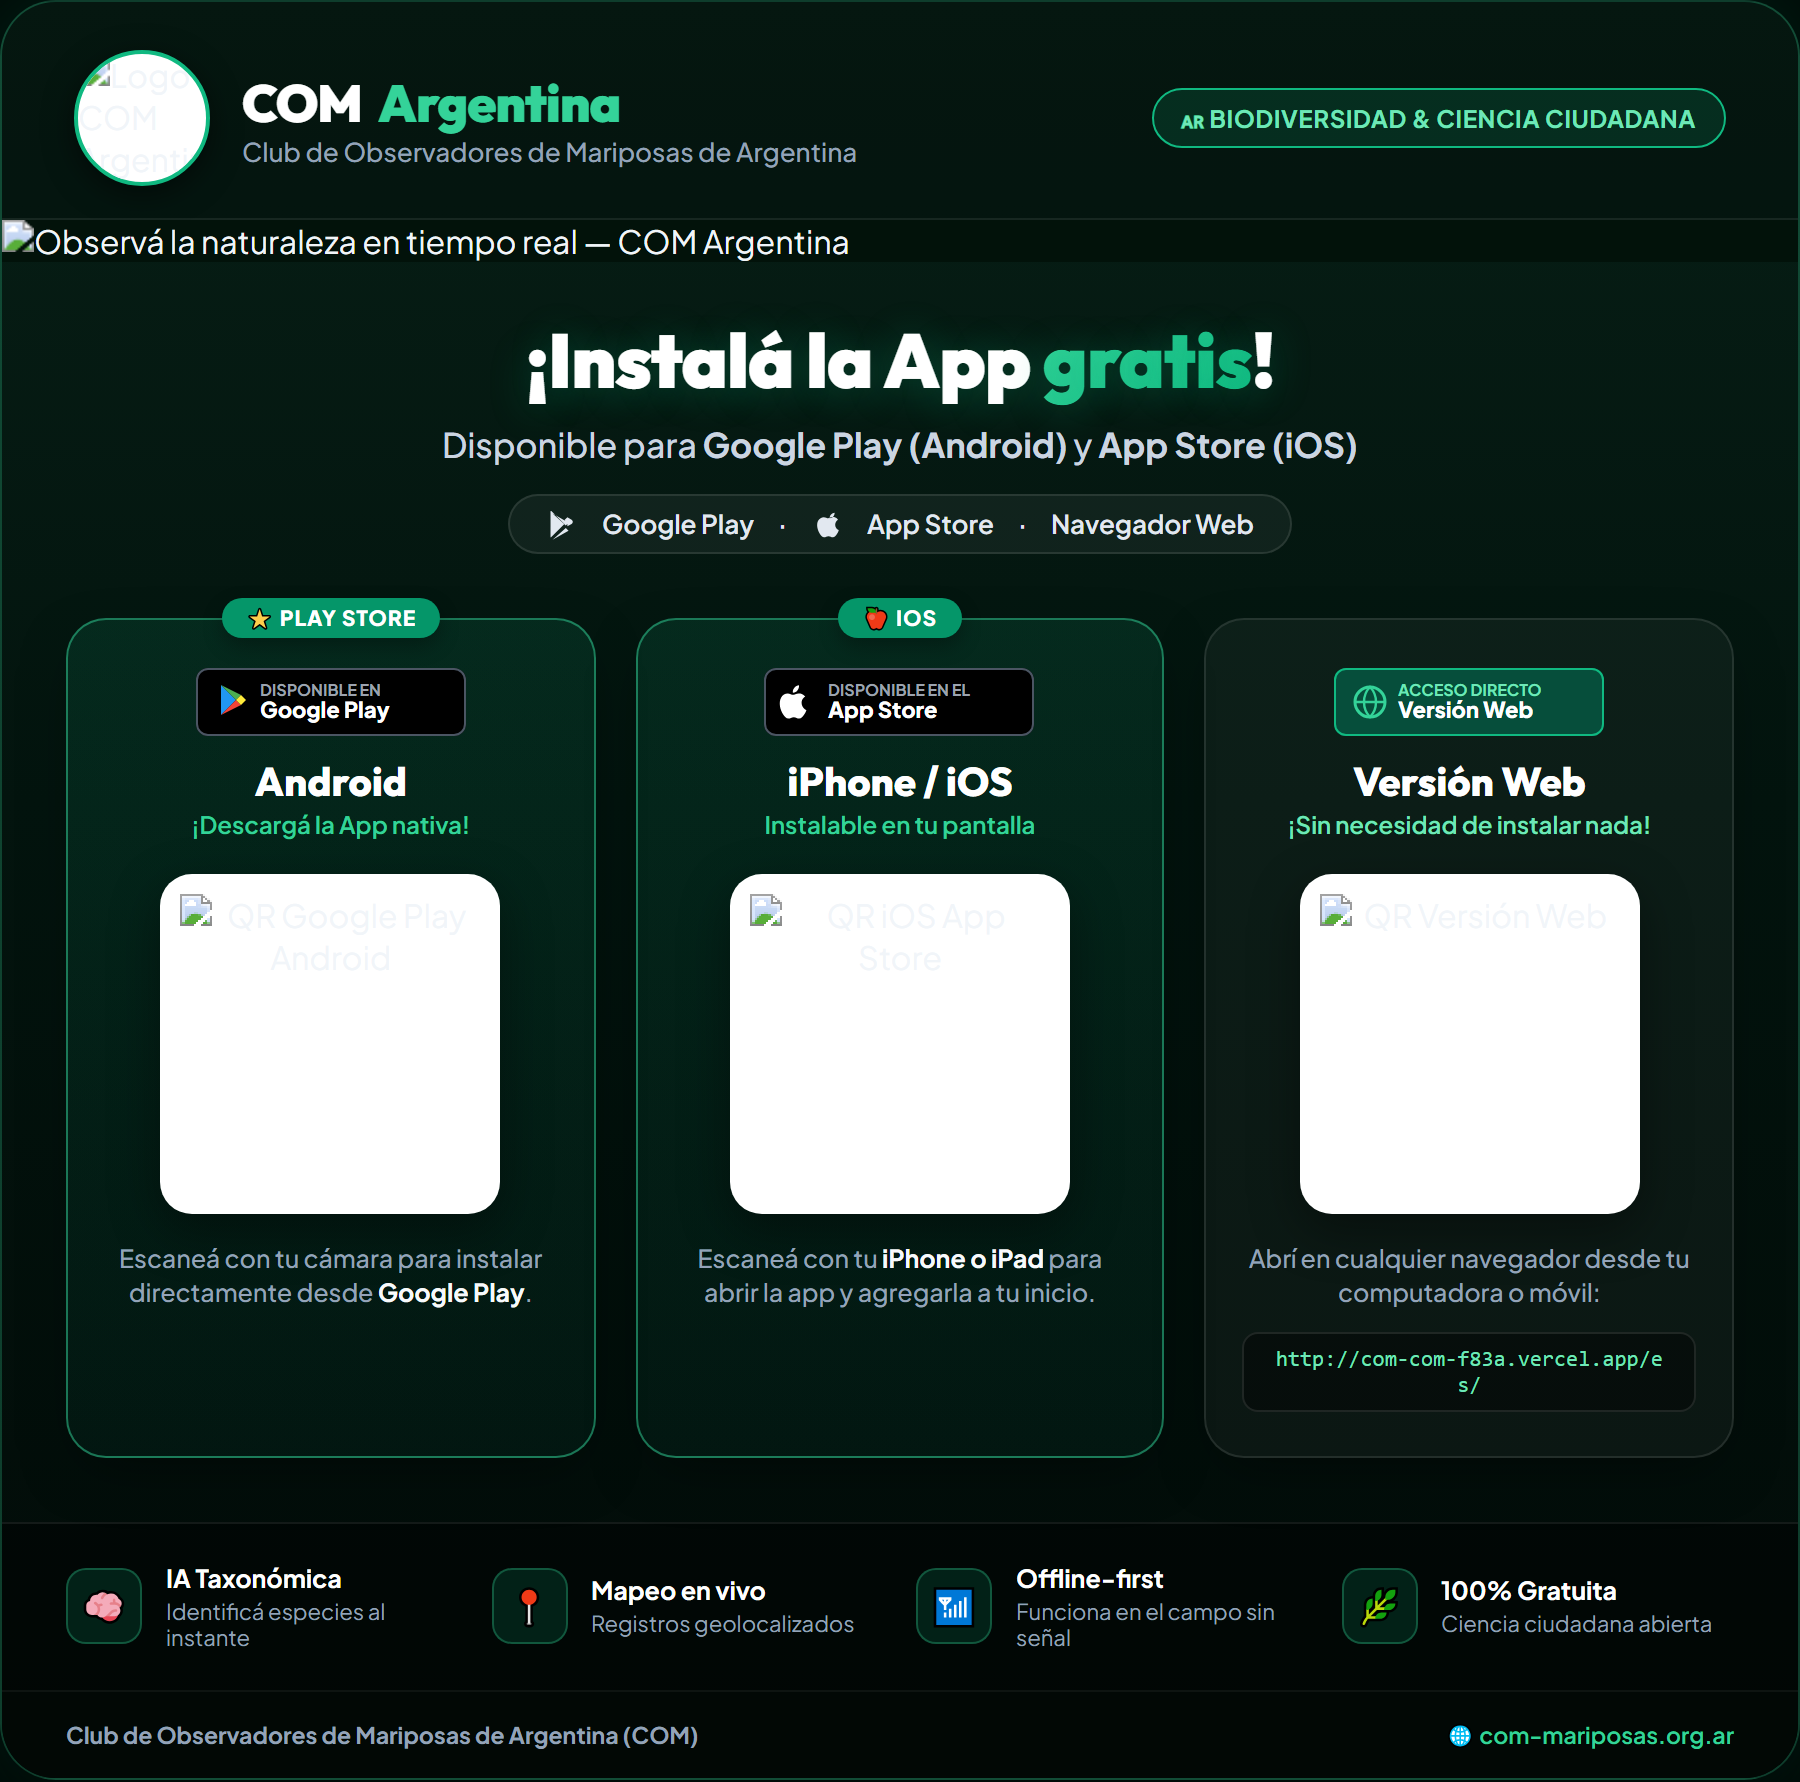
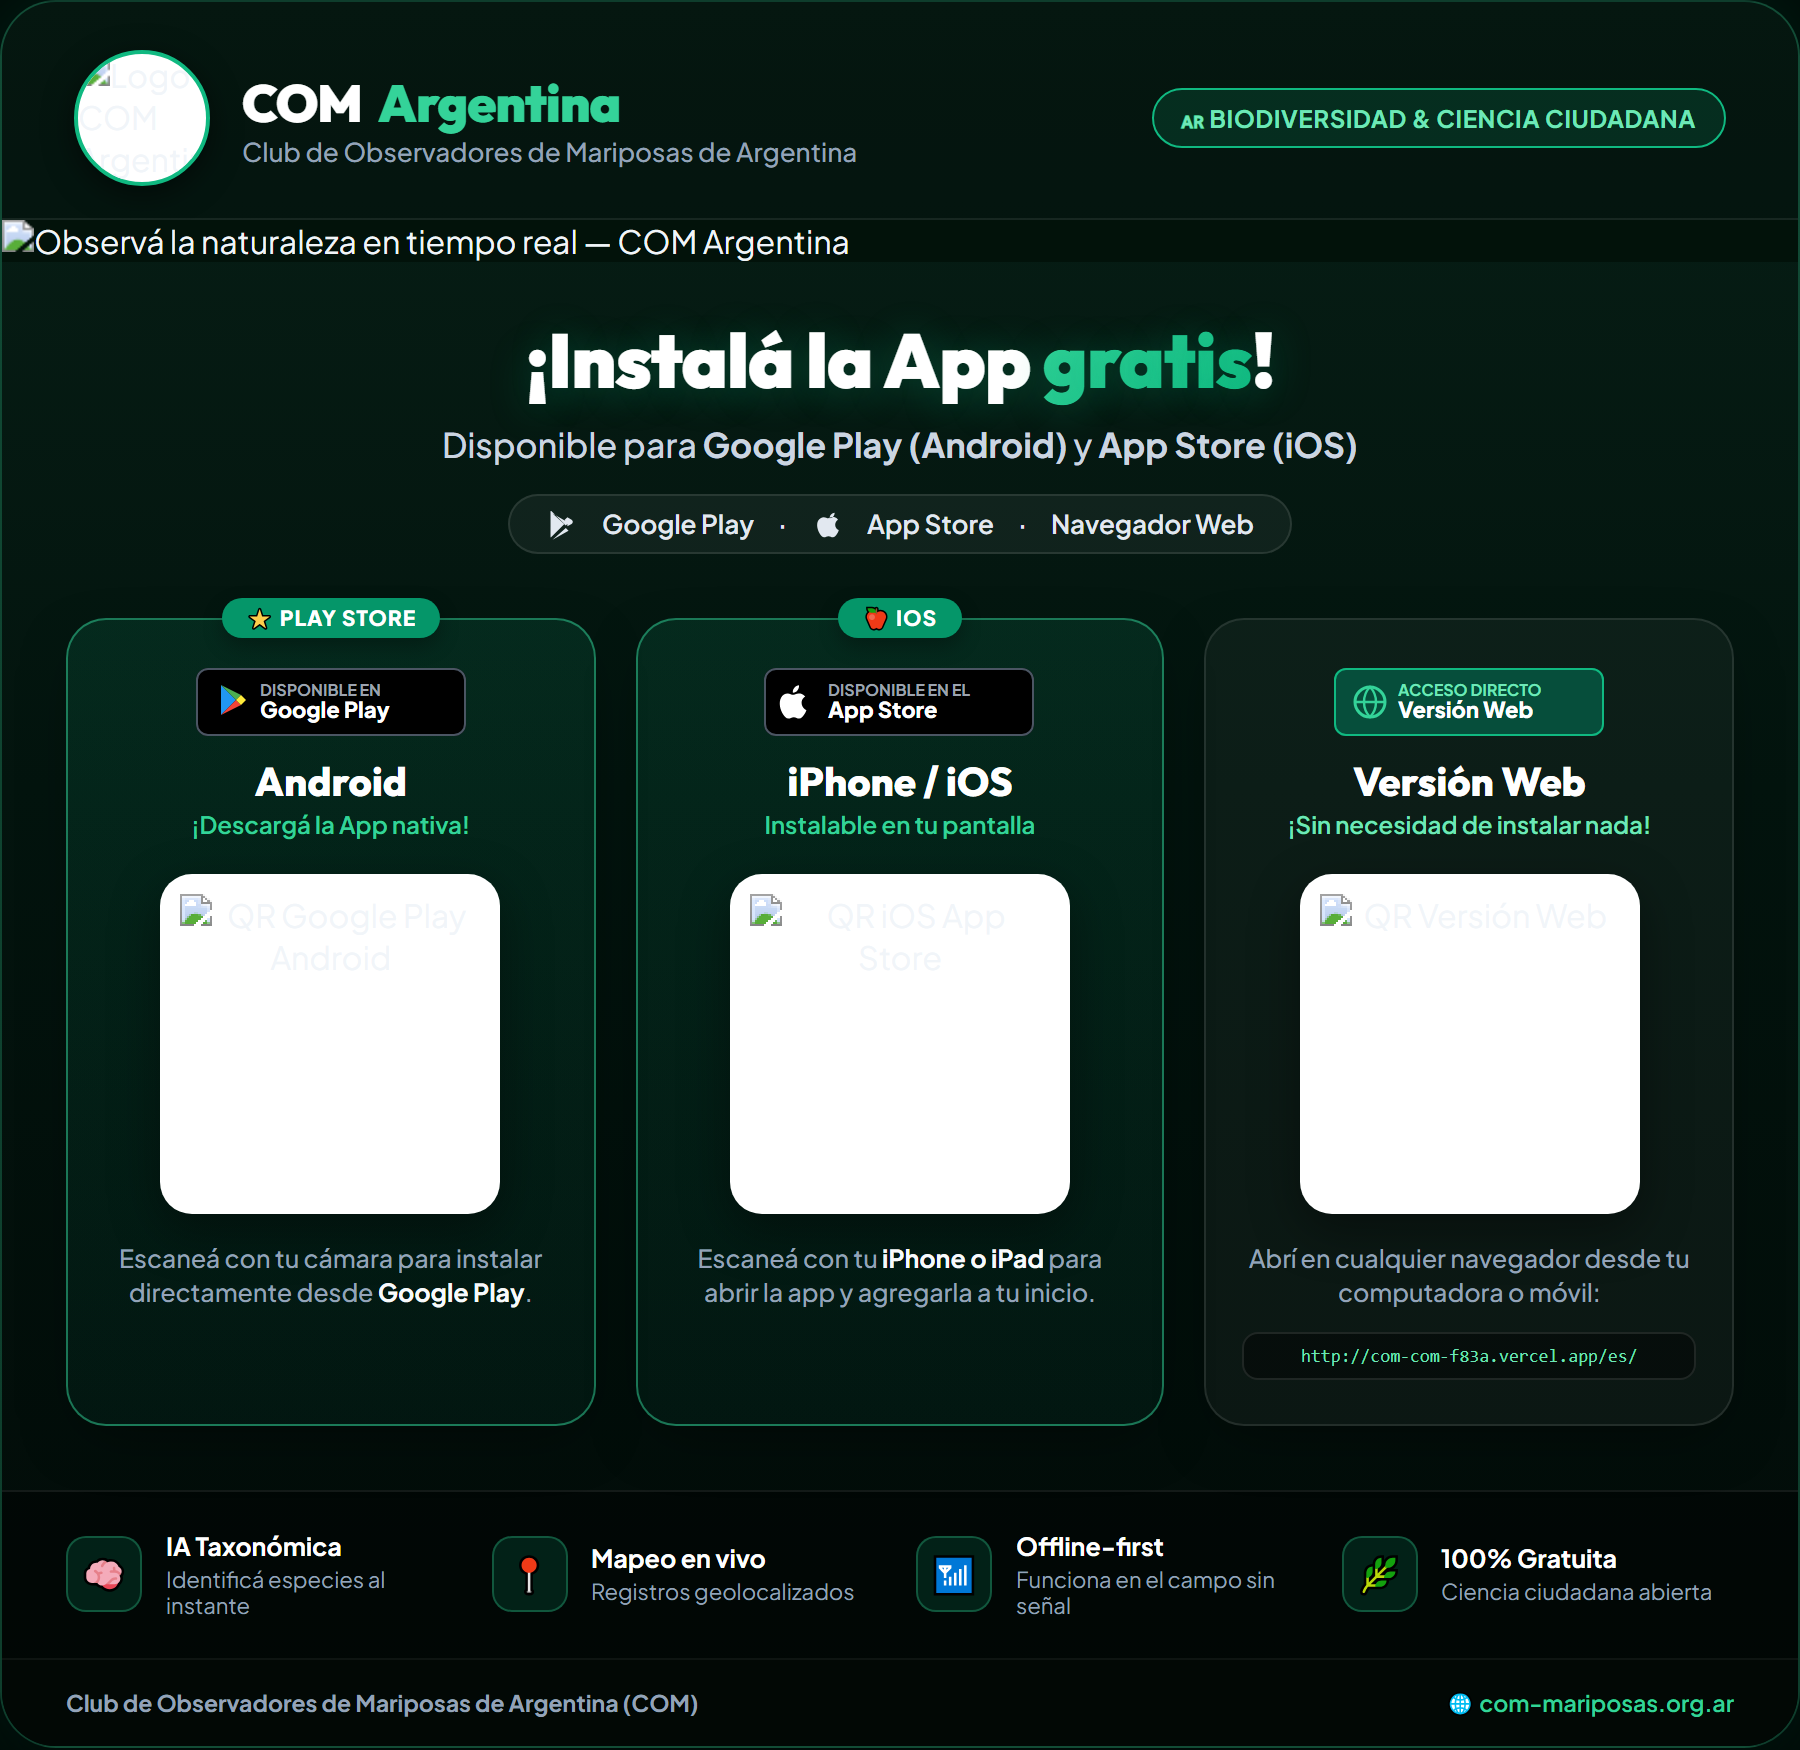
fix(flyer): fix URL line break in web QR card

diff --git a/public/flyer/index.html b/public/flyer/index.html
@@ -308,10 +308,13 @@
       border: 1px solid rgba(255, 255, 255, 0.1);
       border-radius: 8px;
       font-family: monospace;
-      font-size: 11px;
+      font-size: 9px;
       color: #6ee7b7;
-      word-break: break-all;
+      white-space: nowrap;
+      overflow: hidden;
+      text-overflow: ellipsis;
       width: 100%;
+      box-sizing: border-box;
     }
 
     /* Features Highlight Strip */
